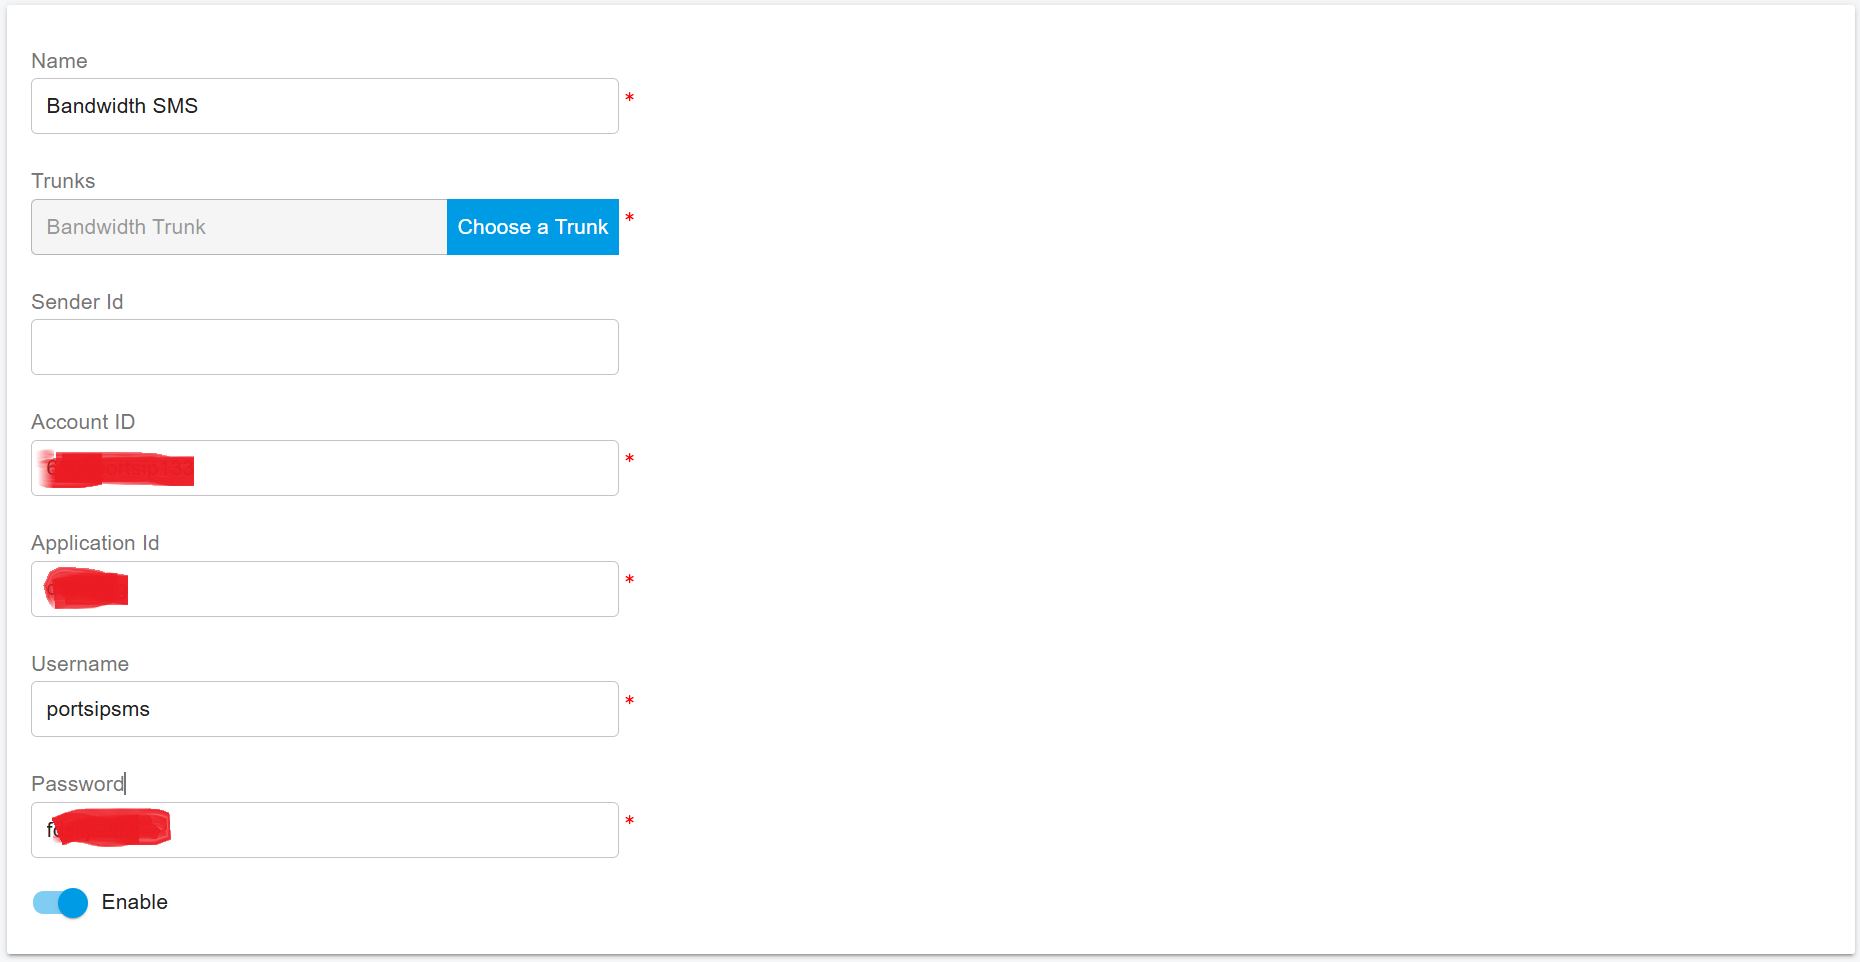
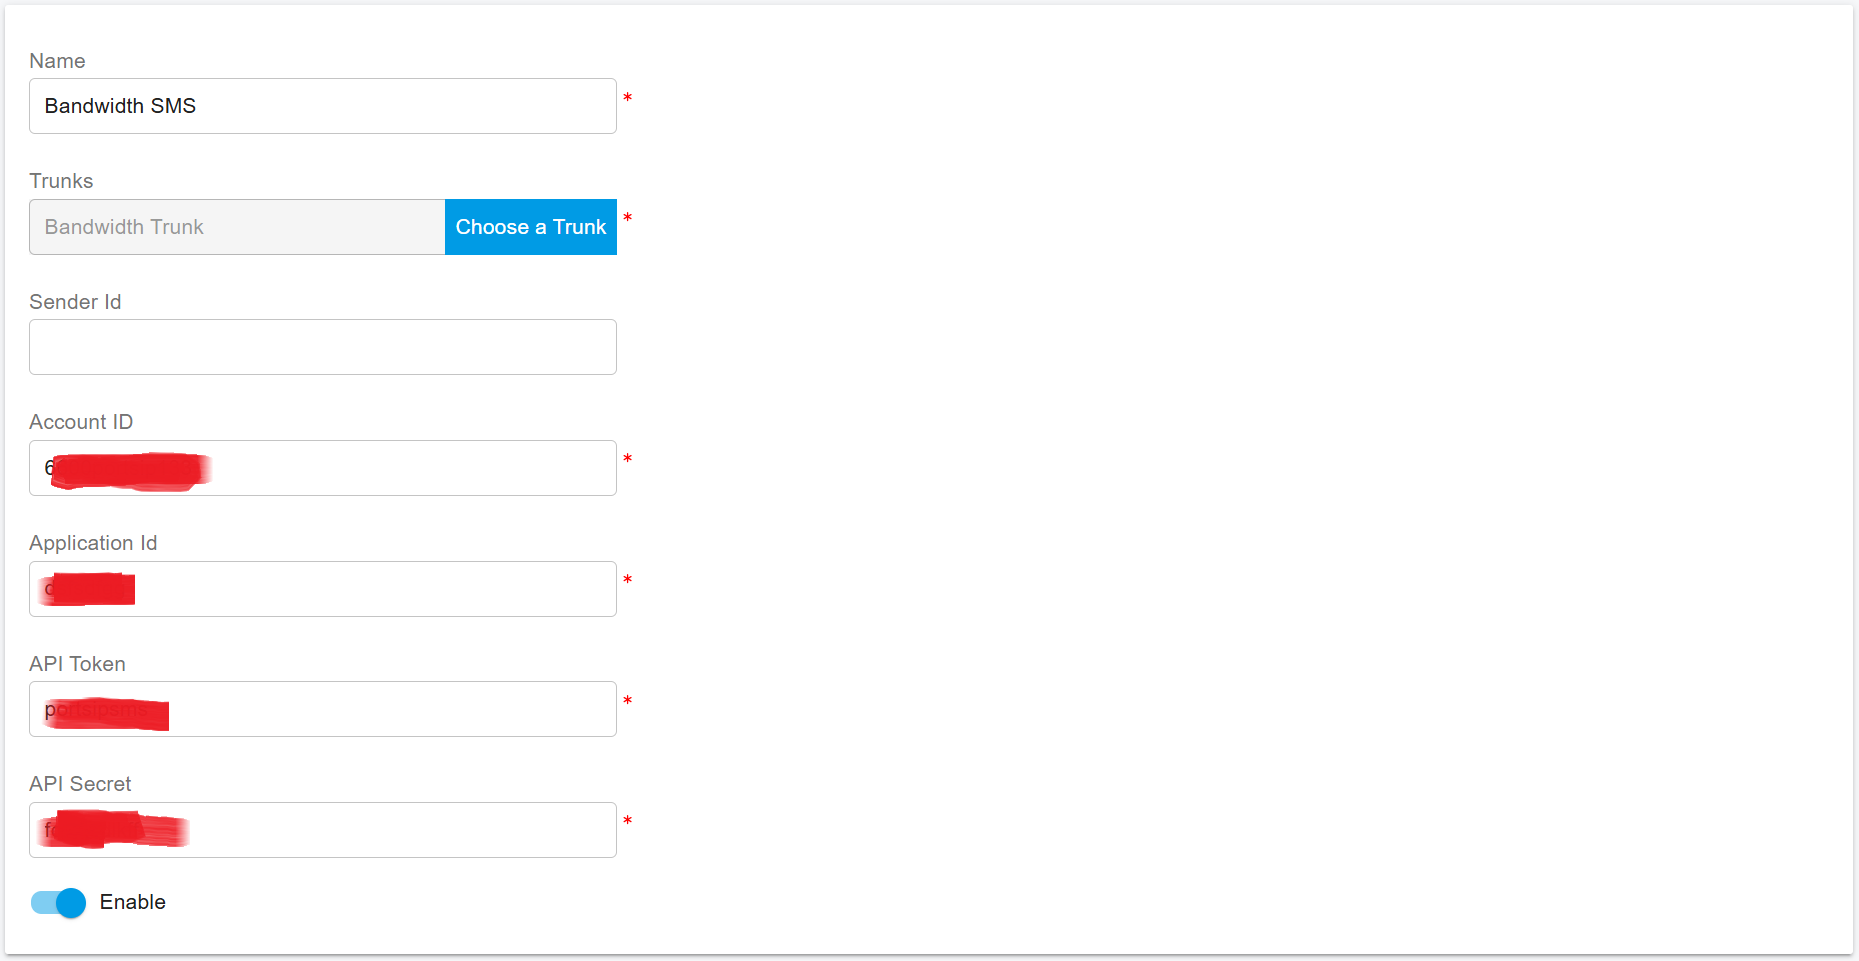
GITBOOK-2515: No subject

diff --git a/portsip-communications-solution/configuring-sip-trunks/bandwidth-sip-trunk/bandwidth-sms-integration.md b/portsip-communications-solution/configuring-sip-trunks/bandwidth-sip-trunk/bandwidth-sms-integration.md
@@ -32,9 +32,9 @@ Once the application is created, you’ll need to generate your API credentials.
 * The system will generate a new **API Token** and **API Secret**. Make sure to copy these for future use.
 * Save these credentials in a secure location.
 
-## Configure SMS with VoIP Innovations Trunk in PortSIP PBX
+## Configure SMS with Bandwidth Trunk in PortSIP PBX
 
-Before configuring SMS in PortSIP PBX, you must have already configured a VoIP Innovation SIP trunk using one of the following guides:
+Before configuring SMS in PortSIP PBX, you must have already configured a Bandwidth SIP trunk using one of the following guides:
 
 * [Configuring Bandwidth IP Authentication Trunk](configuring-bandwidth-ip-authentication-trunk.md)
 
@@ -52,29 +52,21 @@ For more details, please reference [Tenant Management](../../portsip-pbx-adminis
 Please follow the below steps:
 
 1. In the PortSIP PBX Web portal, navigate to the left menu, select **SMS/MMS**, and click the **Add** button.&#x20;
-2. Choose your configured VoIP Innovations Trunk:
-   * **Sender ID**: If you want to use the Sender ID that you created in the Bandwidth platform, please enter that Sender ID in this field. Otherwise, leave it empty, and the PortSIP PBX will use the DID number you configured for that VoIP Innovation trunk as the Sender ID.
-   * **Account ID**: Enter the **User ID** you get in the step Obtaining the User ID.
-   * Application ID: Enter the Application ID you get in the step Obtaining the Application ID.
-   * Username: Enter the username&#x20;
-   * Password:
+2. Choose your configured Bandwidth Trunk:
+   * **Sender ID**: If you want to use the Sender ID that you created in the Bandwidth platform, please enter that Sender ID in this field. Otherwise, leave it empty, and the PortSIP PBX will use the DID number you configured for that Bandwidth trunk as the Sender ID.
+   * **Account ID**: Enter the **User ID** you obtained in the [Obtaining the User ID step](bandwidth-sms-integration.md#id-1.-obtaining-the-user-id).
+   * **Application ID**: Enter the **Application ID** you obtained in the [Obtaining the Application ID](bandwidth-sms-integration.md#id-2.-obtaining-the-application-id) step.
+   * **API Token**: Enter the **API Token** you obtained in the [Obtaining API Token and Secret](bandwidth-sms-integration.md#id-3.-obtaining-api-token-and-secret) step.
+   * **API Secret**: Enter the **API Secret** you obtained in the [Obtaining API Token and Secret](bandwidth-sms-integration.md#id-3.-obtaining-api-token-and-secret) step.
 
 <figure><img src="../../../.gitbook/assets/bandwidth_trunk_6.png" alt=""><figcaption></figcaption></figure>
 
 4. Click **OK** to be brought to the SMS/MMS list page. You can select that SMS configuration and click the **Copy Webhook** button to copy it. Or Double-click the SMS configuration you created and copy the Webhook URL.
-
-## Adding an SMS DID on VoIP Innovations
-
-1. Log in to your VoIP Innovations account at [backoffice.voipinnovations.com](https://backoffice.voipinnovations.com).
-2. Navigate to **SMS >** **Add New SMS DID**.
-3. Set the **Destination Type** to **API POST**.
-4. Enter the **SMS Number** you wish to add.
-5. In the **URL** field, enter your copied Webhook URL from PortSIP PBX for this number.
-6. Click **Configure** button to save the settings.
-
-<figure><img src="../../../.gitbook/assets/vi_trunk_sms_3.png" alt=""><figcaption></figcaption></figure>
+5. **Sign in** to your Bandwidth dashboard. Go to the **Applications** section.
+6. Find the **Webhook URL** field and replace the old fake URL with the new **Webhook URL** you copied from PortSIP PBX.
+7. **Save** the changes.
 
 ## Verify Configuration
 
-Now you can [create the outbound and inbound rules](../wavix-sip-trunk/configuring-outbound-and-inbound-calls.md) in PortSIP PBX for sending and receiving SMS/MMS using the VoIP Innovation Trunk, just like you create the rules for making and receiving calls.
+Now you can [create the outbound and inbound rules](../wavix-sip-trunk/configuring-outbound-and-inbound-calls.md) in PortSIP PBX for sending and receiving SMS/MMS using the Bandwidth Trunk, just like you create the rules for making and receiving calls.
 
